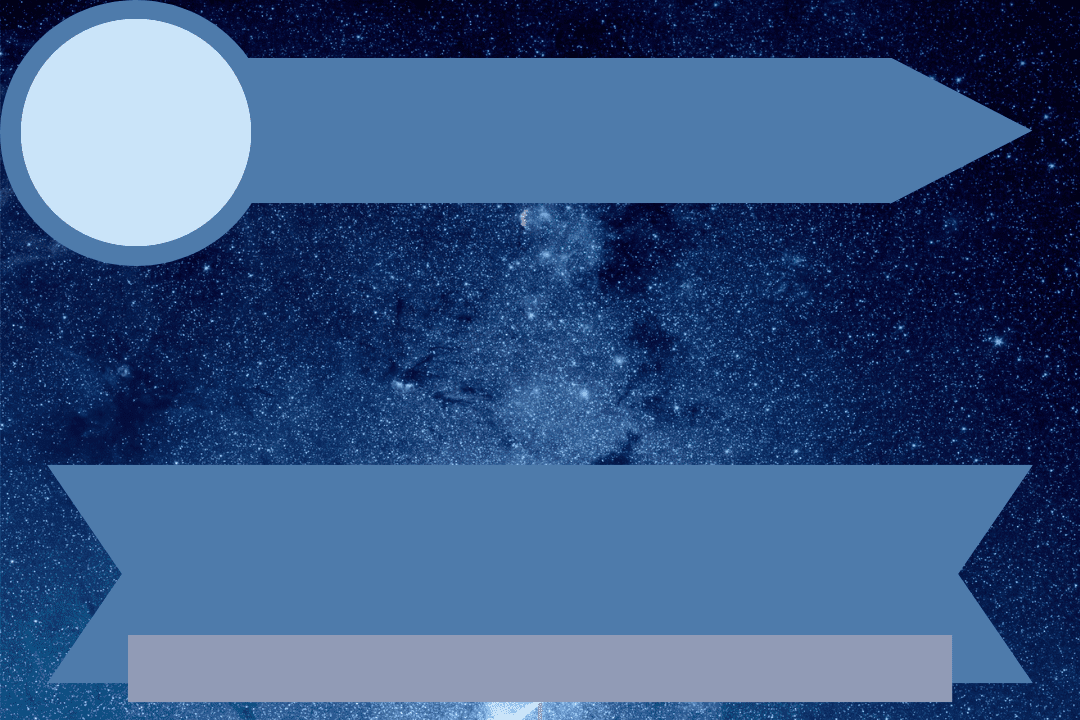
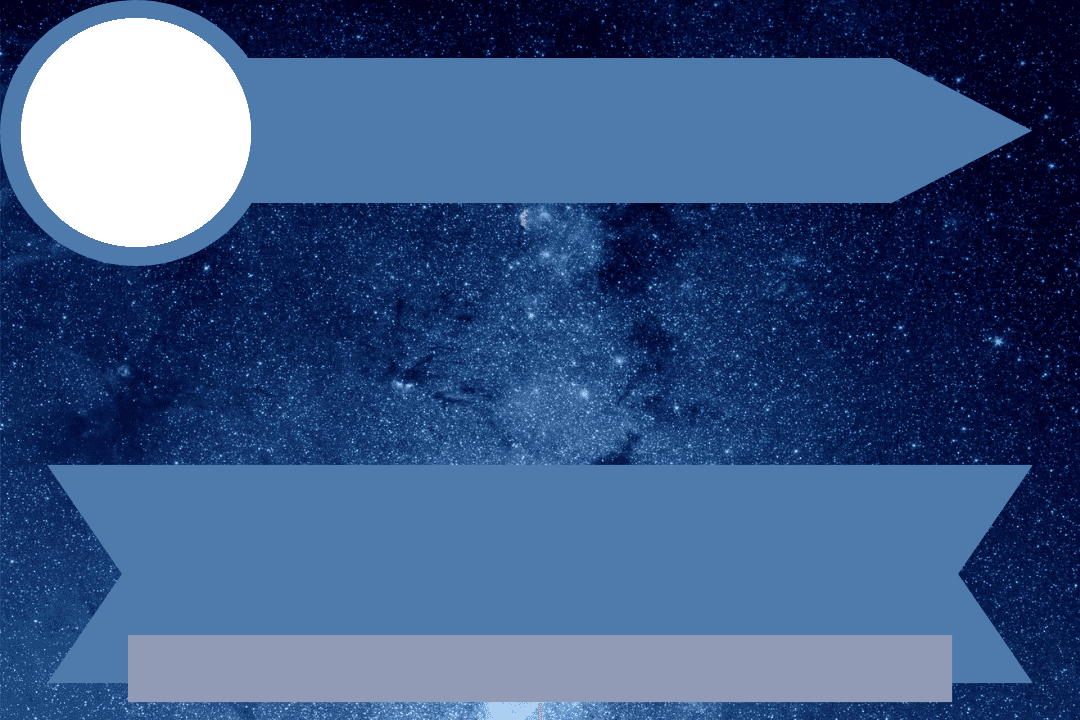
feat: create personal space theme

Changed region(s): [[0.0, 0.0, 0.2444, 0.3667], [0.4278, 0.9778, 0.5194, 1.0]]

diff --git a/src/renderers/profiles/personal_space.go b/src/renderers/profiles/personal_space.go
@@ -13,28 +13,30 @@ func RenderPersonalSpace(User *utils.UserData, I18n *utils.I18n, db *database.Da
 	ctx := gg.NewContext(1080, 720)
 
 	userAvatar := utils.GetImageFromURL(User.Avatar, 250, db)
-
-	ctx.DrawImage(userAvatar, 540, 75)
-
 	backgroundImage := utils.GetAsset("/profiles/personal_space.png")
 
+	ctx.DrawImage(userAvatar, 0, 0)
 	ctx.DrawImage(backgroundImage, 0, 0)
 
-	ctx.SetHexColor("#845242")
-	ctx.SetFontFace(*utils.GetFont("Mustard", 36))
-	ctx.DrawStringWrapped("\u200e   "+User.Info, 827, 270, 0.5, 0, 455, 1, 0)
-
-	ctx.DrawStringWrapped(User.Tag, 610, 105, 0, 0, 455, 1, 1)
+	ctx.SetHexColor("#FFF")
 
 	if User.Married {
-		ctx.SetFontFace(*utils.GetFont("Mustard", 32))
-		ctx.DrawStringWrapped(User.Marry.Tag, 620, 140, 0, 0, 430, 1, 1)
+		ctx.SetFontFace(*utils.GetFont("Sans", 42))
+		ctx.DrawStringWrapped(User.Tag, 260, 90, 0, 0.5, 750, 1, 0)
+		ctx.SetFontFace(*utils.GetFont("Sans", 38))
+		ctx.DrawStringWrapped(User.Tag, 260, 150, 0, 0.5, 750, 1, 0)
+	} else {
+		ctx.SetFontFace(*utils.GetFont("Sans", 50))
+		ctx.DrawStringWrapped(User.Tag, 260, 120, 0, 0.5, 750, 1, 0)
 	}
 
-	utils.DrawVerticalBadges(ctx, User, 52, 38)
+	ctx.SetFontFace(*utils.GetFont("Sans", 38))
+	ctx.DrawStringWrapped(User.Info, 620, 220, 0.5, 0, 780, 1, 1)
 
-	ctx.SetFontFace(*utils.GetFont("Mustard", 32))
-	ctx.DrawStringWrapped(I18n.Usages+". "+strconv.Itoa(int(User.Votes))+" upvotes", 610, 480, 0, 0, 460, 1, 0)
+	ctx.SetFontFace(*utils.GetFont("Sans", 34))
+	ctx.DrawStringWrapped(I18n.Usages+"\n"+strconv.Itoa(int(User.Votes))+" Upvotes || "+I18n.Mamado+" "+strconv.Itoa(int(User.Mamadas))+" || "+I18n.Mamou+" "+strconv.Itoa(int(User.Mamou)), 550, 480, 0.5, 0, 920, 1, 1)
+
+	utils.DrawBadges(ctx, User, 125, 637)
 
 	return ctx.Image()
 }
